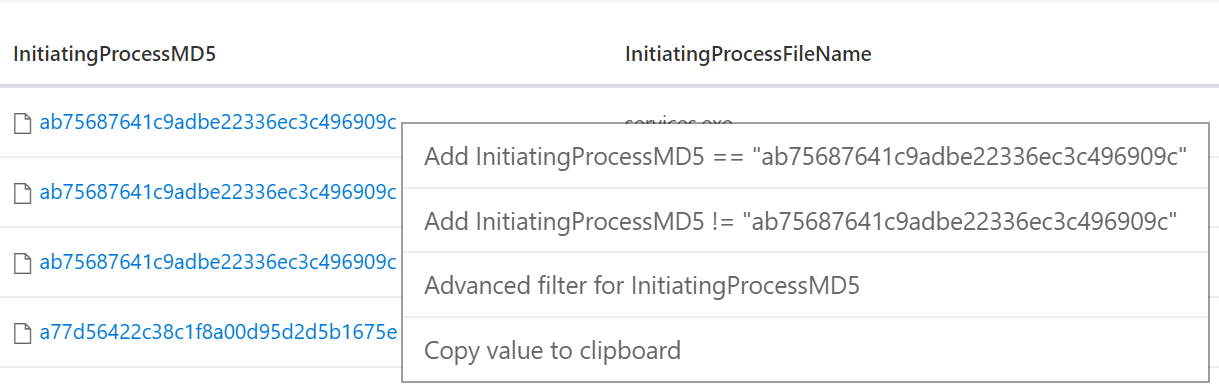
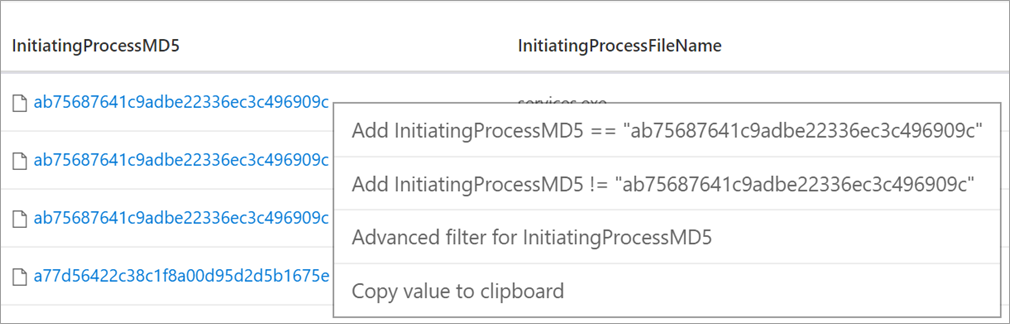
update ca and image for adv hunting

diff --git a/windows/security/threat-protection/windows-defender-atp/conditional-access-windows-defender-advanced-threat-protection.md b/windows/security/threat-protection/windows-defender-atp/conditional-access-windows-defender-advanced-threat-protection.md
@@ -42,8 +42,8 @@ The following image shows the conditional access flow in action:
 
 1. A user opens a malicious file and Windows Defender ATP flags the device as high risk.
 2. The high risk assessment is passed along to Intune. In parallel, an automated investigation is initiated to remediate the identified threat. A manual remediation can also be done to remediate the identified threat.
-3. Based on the policy created in Intune, the device is marked as not compliant. The assessment is then communicated to Azure AD. In Azure AD, the corresponding policy is applied to block access to applications.
-4. The manual or automated investigation and remediation is completed and the threat is removed. Windows Defender ATP sees the device as low risk and Intune assesses the device to be in a compliant state. Azure AD applies the policy which allows access to applications.
+3. Based on the policy created in Intune, the device is marked as not compliant. The assessment is then communicated to Azure AD by the Intune conditional access policy. In Azure AD, the corresponding policy is applied to block access to applications.
+4. The manual or automated investigation and remediation is completed and the threat is removed. Windows Defender ATP sees that there is no risk on the device and Intune assesses the device to be in a compliant state. Azure AD applies the policy which allows access to applications.
 5. Users can now access applications.
 
 
